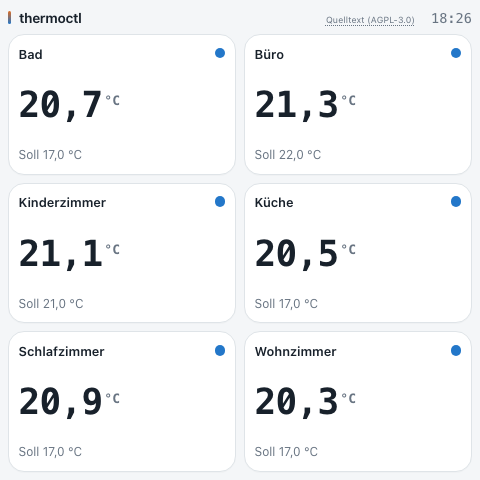
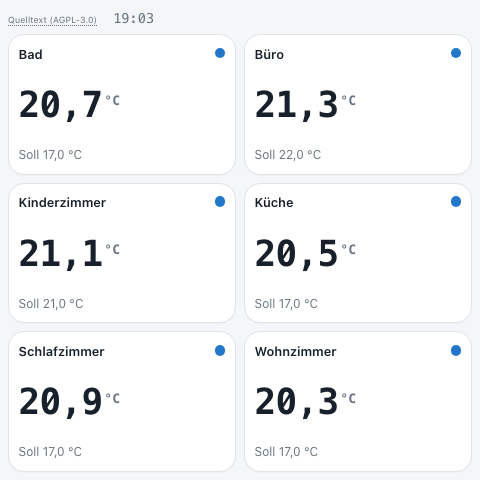
feat: im Kiosk faellt der Schriftzug weg
Ein Wandpanel zeigt die Raeume, nicht den Produktnamen. Der Schriftzug
'thermoctl' ist in beiden Kiosk-Formen entfernt, Tafel wie Panel; die
gemeinsame .tc-marker-Regel und die uebrige Oberflaeche bleiben
unberuehrt. Quelltext-Link und Uhrzeit ruecken nach links, ohne Luecke.

Der Link 'Quelltext (AGPL-3.0)' bleibt: Er ist die Erfuellung von AGPL
Paragraph 13 gegenueber jemandem, der die Oberflaeche ueber das Netz
bedient. Weil der Detaildialog der Panel-Ansicht ihn verdeckte, traegt
dessen Kopfzeile ihn jetzt ebenfalls -- vier Tests waren vorher rot am
Schriftzug, zwei weitere am fehlenden Link im Detail.

Kiosk-Bilder neu gezogen (drei geaendert, kein anderes Bild beruehrt).

Umgesetzt von Codex; Commit durch die Hauptsession.

diff --git a/thermoctl/web/templates/kiosk.html b/thermoctl/web/templates/kiosk.html
@@ -172,7 +172,6 @@ nichts aufzuheben, und der Knopf wäre einer ohne Wirkung.
      hx-select="#kiosk-body" hx-target="#kiosk-body" hx-swap="outerHTML"
      data-kiosk-error-zone="{{ error_zone_id or '' }}">
     <div class="kiosk-heading">
-        <span class="tc-marker kiosk-marker">thermoctl</span>
         <div class="d-flex align-items-baseline gap-3">
             {#
             AGPL-3.0 §13 verlangt für netzseitig genutzte Software eine erreichbare
@@ -299,6 +298,8 @@ nichts aufzuheben, und der Knopf wäre einer ohne Wirkung.
              role="dialog" aria-modal="true" aria-label="{{ zone.display_name }}">
             <div class="kiosk-detail-head">
                 <span class="kiosk-detail-name">{{ zone.display_name }}</span>
+                <a class="kiosk-source-link t-quiet" href="https://github.com/MagicalWig34653/thermoctl"
+                   target="_blank" rel="noopener">Quelltext (AGPL-3.0)</a>
                 {#
                 `type="button"`, kein Formular: Zurück verlässt nur die Ansicht,
                 verändert nichts an der Zone -- ein `submit` hätte hier fälschlich

diff --git a/thermoctl/web/static/thermoctl.css b/thermoctl/web/static/thermoctl.css
@@ -1344,13 +1344,6 @@ body {
     gap: 0.5rem;
 }
 
-/* Stand bis 0.9.4 als Inline-`style` am Element selbst -- musste hierher
-   wandern, weil die Panel-Ansicht ihn kleiner braucht und eine Inline-Angabe
-   jede Regel aus dieser Datei ohne `!important` schlägt. */
-.kiosk-marker {
-    font-size: 1.75rem;
-}
-
 .kiosk-clock {
     /* Vier tote Kürzel standen hier: `--schrift-instrument`, `--gedämpft`,
        `--tinte`, `--wärme`. Sie stammen aus der Umbenennung ins Englische und
@@ -1479,10 +1472,6 @@ body {
 
 .kiosk-page[data-ansicht-aktiv="panel"] .kiosk-heading {
     gap: 0.3rem;
-}
-
-.kiosk-page[data-ansicht-aktiv="panel"] .kiosk-marker {
-    font-size: 0.85rem;
 }
 
 .kiosk-page[data-ansicht-aktiv="panel"] .kiosk-clock {

diff --git a/browser_tests/test_kiosk.py b/browser_tests/test_kiosk.py
@@ -688,3 +688,32 @@ def test_enter_and_space_on_the_plus_button_still_work_in_the_tafel_view(
     finally:
         assert not errors, "Kiosk-Konsole meldete Fehler:\n" + "\n".join(errors)
         page.context.close()
+
+
+@pytest.mark.parametrize("mode,width,height,detail", [
+    ("tafel", 1440, 900, False), ("tafel", 390, 844, False),
+    ("panel", 480, 480, False), ("panel", 390, 844, False),
+    ("panel", 480, 480, True), ("panel", 390, 844, True),
+])
+def test_kiosk_has_no_wordmark_and_keeps_source_link_visible(
+    page: Page, live_server: LiveServer, mode: str, width: int, height: int, detail: bool,
+) -> None:
+    zone_ids = _seed_panel_zones(live_server, prefix=f"Logo-{mode}-{width}-{detail}")
+    plaintext = _issue_kiosk_token_for_zones(live_server, zone_ids)
+    page.set_viewport_size({"width": width, "height": height})
+    page.goto(f"/kiosk/{plaintext}")
+    page.goto(f"/kiosk?ansicht={mode}")
+    expect(page.locator("body")).to_have_attribute("data-ansicht-aktiv", mode)
+    expect(page.locator(".kiosk-clock")).to_be_visible()
+    scope = page.locator(".kiosk-heading")
+    if detail:
+        page.locator("[data-kiosk-tile]").first.click()
+        scope = page.get_by_role("dialog")
+        expect(scope).to_be_visible()
+    source = scope.get_by_role("link", name="Quelltext (AGPL-3.0)", exact=True)
+    expect(source).to_be_visible()
+    expect(source).to_be_in_viewport()
+    expect(source).to_have_attribute("href", "https://github.com/MagicalWig34653/thermoctl")
+    source.click(trial=True)  # Also detects an overlay intercepting the link.
+    expect(page.get_by_text("thermoctl", exact=True)).to_have_count(0)
+    expect(page.locator(".tc-marker, .kiosk-marker")).to_have_count(0)

diff --git a/docs/STATUS.md b/docs/STATUS.md
@@ -44,6 +44,9 @@ Kopfzeile fehlte jeder `@media`-Block. Jetzt (noch unveröffentlicht, nicht Teil
   oder die Rechteprüfung der vier bestehenden Kiosk-Endpunkte.
 
 Die Panel-Ansicht ist jetzt in der Bedienungs- und Self-Hosting-Dokumentation bebildert.
+Tafel und Panel zeigen in der Kopfzeile keinen Produkt-Schriftzug, sondern nur den
+weiterhin direkt sichtbaren Quelltext-Link (AGPL-3.0) und die Uhrzeit; auch der
+Panel-Detaildialog bietet den Quelltext-Link direkt an.
 
 Noch offen: Kreuzreview (Umsetzung war ein Claude-Agent) inklusive eigenem
 Testlauf gegen SQLite **und** MariaDB, danach Merge nach `main` und ein
